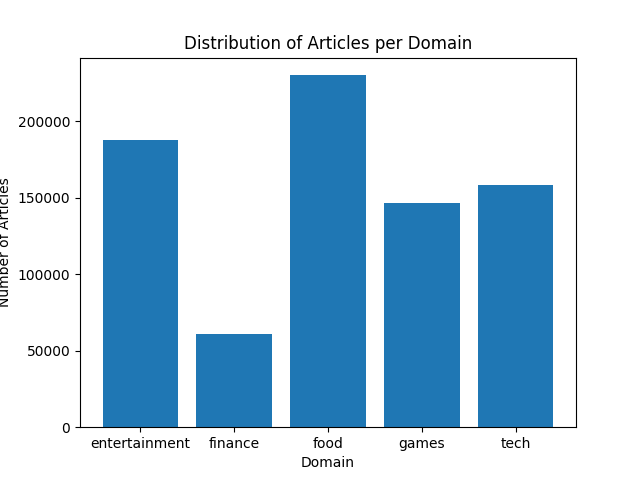
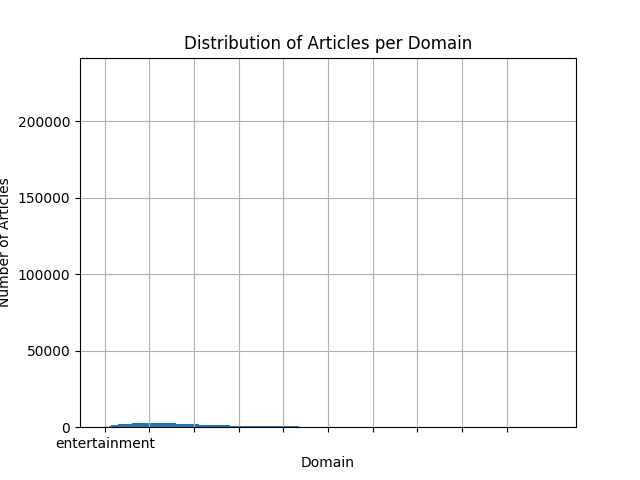
feat: add text length distribution analysis

diff --git a/data/analysis.py b/data/analysis.py
@@ -1,6 +1,7 @@
 import json
 from urllib.parse import urlparse
 import matplotlib.pyplot as plt
+import numpy as np
 
 def get_publications_dict(domain):
     pub_dict = {}
@@ -15,6 +16,30 @@ def get_publications_dict(domain):
                 pub_dict[domain_name]['count'] += 1
                 pub_dict[domain_name]['avg_tokens'] = (pub_dict[domain_name]['avg_tokens'] * (pub_dict[domain_name]['count'] - 1) + len(jsonline['text'])) / pub_dict[domain_name]['count']
     return pub_dict
+
+def get_text_length_distribution(domain):
+    text_list = []
+    with open(f'v2/non_parallel/{domain}/data.000000000000.jsonl') as f:
+        data = f.readlines()
+        for line in data:
+            text_list.append(len(json.loads(line)['text']))
+   
+    text_list = [l for l in text_list if l < 10000]
+    # Define bins
+    bin_edges = np.arange(0, max(text_list) + 100, 50)  # Adjust the bin width as needed
+
+    # Compute histogram
+    hist, _ = np.histogram(text_list, bins=bin_edges)
+
+    # Plotting
+    plt.bar(bin_edges[:-1], hist, width=100)  # Use width=10 to match bin width
+    plt.title('Distribution of Text Lengths')
+    plt.xlabel('Text Length')
+    plt.ylabel('Frequency')
+    plt.grid(True)
+    plt.xticks(np.arange(0, max(text_list) + 1, 1000))  # Adjust step size as needed
+    plt.savefig(f'{domain}_length_distribution.png')
+
 
 def bar_plot(data_dict, xlabel, ylabel, title, save_fig):
     plt.bar(data_dict.keys(), [val['count'] for val in data_dict.values()])
@@ -35,6 +60,8 @@ for d in domains:
     bar_plot(pub_dict, 'Publications', 'Number of Articles', f'Distribution of Articles per Publication ({d})', f'{d}_distribution.png')
     
     domain_dict[d] = {'count': sum([val['count'] for val in pub_dict.values()])}
+
+    get_text_length_distribution(d)
 
 print('Domain dict: ', domain_dict)
 bar_plot(domain_dict, 'Domain', 'Number of Articles', 'Distribution of Articles per Domain', 'domain_distribution.png')
